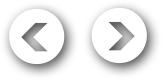
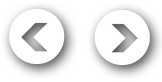
slider done

diff --git a/css/style.css b/css/style.css
@@ -45,14 +45,15 @@ a.btn_yellow:hover {
 	width: 81px;
 	background: url(../img/arrows_slider.png) no-repeat;
 	top: 80%;
+	opacity: 1;
 }
 .slider_container .left {	
 	background-position: 0px 0px;
-	left: 5%;
+	left: 1%;
 }
 .slider_container .right {
-	background-position: 81px 0px;
-
+	background-position: -81px 0px;
+	right: 1%;
 }
 .slider_container .carousel-indicators {
 	bottom: -5px;
@@ -62,6 +63,18 @@ a.btn_yellow:hover {
 	bottom: -60px;
 	width: 100%;
 }
+.slider_container .slider ol li {
+	width: 14px;
+	height: 14px;
+	background: white;
+	border-radius: 50%;
+	border: none;
+}
+.slider_container .slider ol li.active {
+	background: #7d7a70;
+}
+
+
 div.title {
 	padding-left: 25px;
 	padding-right: 25px;
@@ -136,3 +149,11 @@ div.title h1 span {
 	background: #323232;
 	color: #fff;
 }
+/* media
+-----------------------------------------------------------------------------*/
+/*@media screen and (max-width: 991px) {
+    .slider_container .carousel-control {
+    	height: 40px;
+    	width: 40px;
+    }
+}*/
